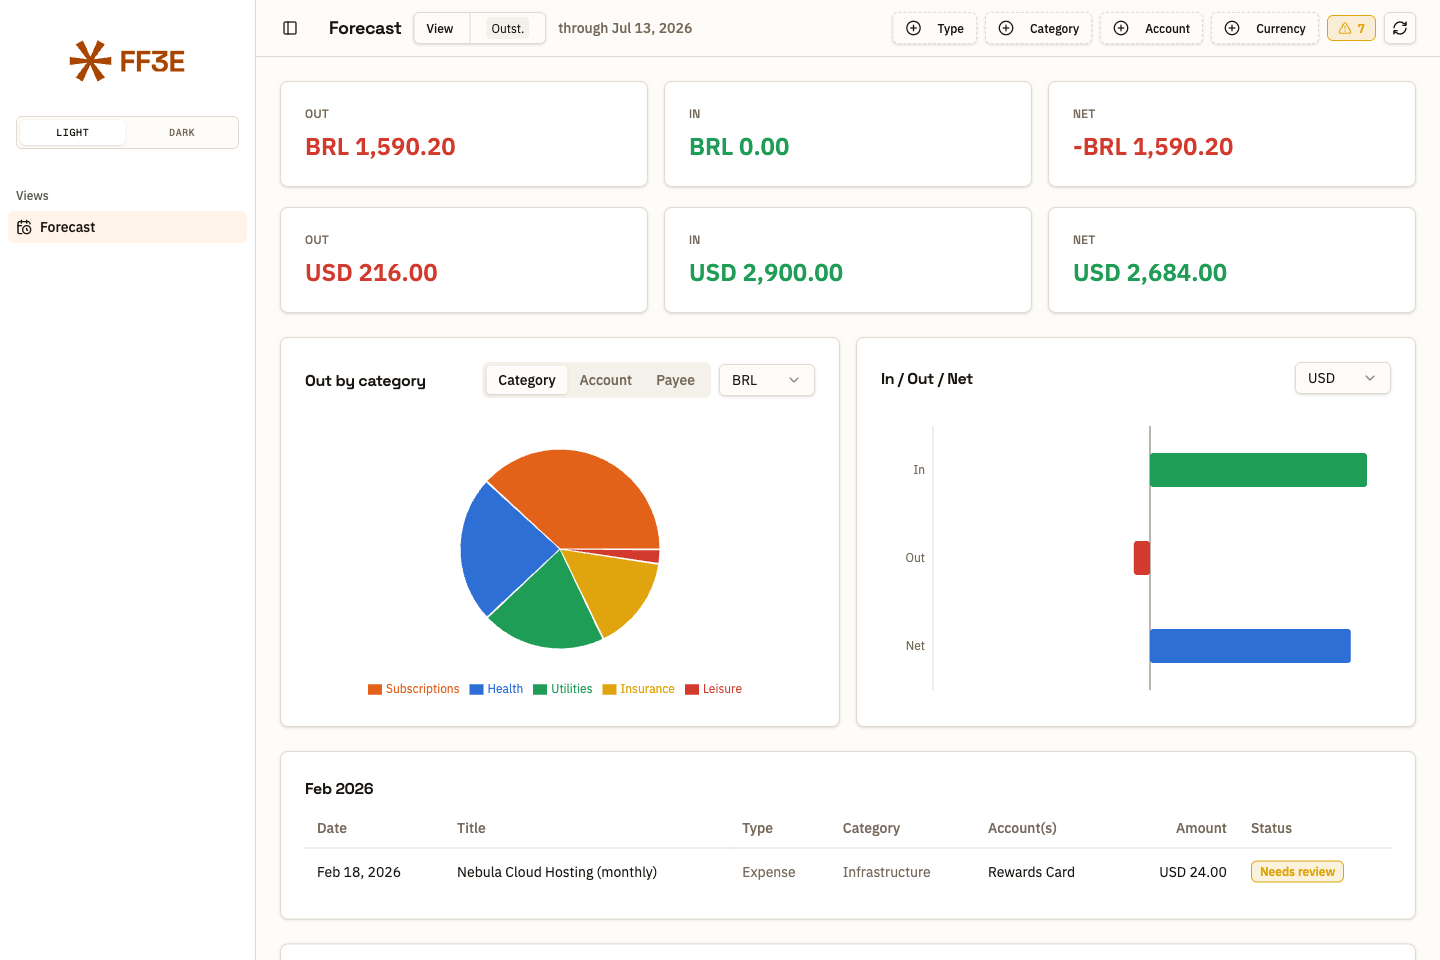
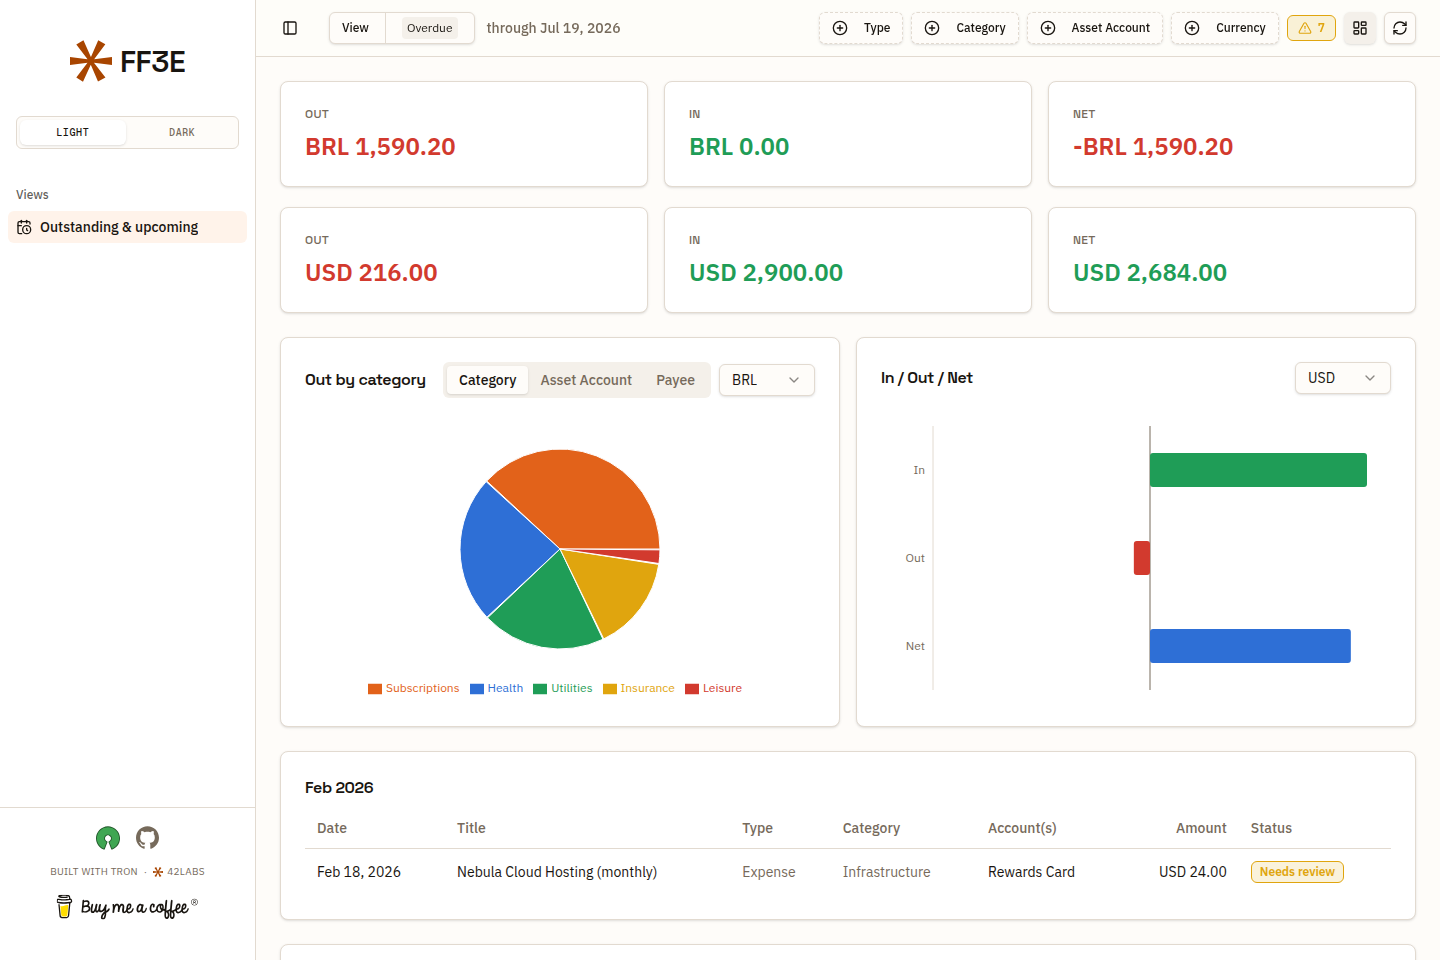
feat(entropy): emit only the outstanding set + rename views, drop header, add dashboard toggle (#13)
Entropy complements Firefly III rather than restating it. Confirmed occurrences
(paid/received/done) live in Firefly III, so the engine now drops them at the
source and emits ONLY the outstanding set (upcoming + needs_review). The match
still runs for every occurrence — it consumes the matched transaction via `used`
so a later occurrence can't re-claim it — only the confirmed item isn't appended.

Because the payload is no longer "forecast" alone (upcoming is forecast, but
needs_review is arrears), rename for accuracy:
- views: outstanding → "Overdue", month_end → "Due this month" (labels only;
  ViewMode keys and range/filter logic unchanged)
- sidebar tab: "Forecast" → "Outstanding & upcoming"; the header <h1> title is
  removed (the tab is named only in the sidebar)

Add a Dashboard show/hide toggle (per-currency stat cards + charts) in the
header, persisted in localStorage, shown by default; the item list is never
gated by it.

Docs/demo: README rewritten to the two-status model; hero screenshot refreshed;
the public demo-story fixture regenerated to drop confirmed items and recompute
aggregates.

Validated against a drift-proof live baseline: post-change totals 416/192/196,
paid count 0, remaining item set per-period identical to baseline minus the
confirmed rows. Sonnet adversarial review: clean.

Claude-Session: https://claude.ai/code/session_01CWDxZw6DSzizpzjcJrTrqe

diff --git a/web/src/App.tsx b/web/src/App.tsx
@@ -20,6 +20,25 @@ export default function App() {
   const [mode, setMode] = useState<ViewMode>('month')
   const [anchor, setAnchor] = useState<string>(() => todayISO())
   const [filters, setFilters] = useState<ActiveFilters>(EMPTY_FILTERS)
+  // Dashboard = the stat cards + charts. Shown by default; the choice persists
+  // across reloads. The item list below is never gated by this.
+  const [dashboardShown, setDashboardShown] = useState<boolean>(() => {
+    try {
+      return localStorage.getItem('entropy:dashboard') !== 'hidden'
+    } catch {
+      return true
+    }
+  })
+  const toggleDashboard = () =>
+    setDashboardShown((shown) => {
+      const next = !shown
+      try {
+        localStorage.setItem('entropy:dashboard', next ? 'shown' : 'hidden')
+      } catch {
+        /* private mode / storage disabled — session-only toggle is fine */
+      }
+      return next
+    })
 
   const cumulative = isCumulativeMode(mode)
 
@@ -68,7 +87,7 @@ export default function App() {
 
   const emptyMessage = cumulative
     ? mode === 'outstanding'
-      ? 'Nothing outstanding — everything due so far is accounted for.'
+      ? 'Nothing overdue — everything due so far is accounted for.'
       : 'Nothing due through the end of this month.'
     : 'No projected obligations in this period.'
 
@@ -92,6 +111,8 @@ export default function App() {
           filterOptions={filterOptions}
           filters={filters}
           onFiltersChange={setFilters}
+          dashboardShown={dashboardShown}
+          onToggleDashboard={toggleDashboard}
         />
 
         <main className="w-full max-w-[1280px] px-4 py-6 sm:px-6">
@@ -114,18 +135,22 @@ export default function App() {
                   <EmptyState message={emptyMessage} />
                 ) : (
                   <>
-                    <SummaryCards currencies={filtered.currencies} />
+                    {dashboardShown && (
+                      <>
+                        <SummaryCards currencies={filtered.currencies} />
 
-                    <div className="grid grid-cols-1 gap-4 lg:grid-cols-2">
-                      <CategoryPie
-                        periods={sortedFilteredPeriods}
-                        availableCurrencies={availableCurrencies}
-                      />
-                      <PeriodBar
-                        periods={sortedFilteredPeriods}
-                        availableCurrencies={availableCurrencies}
-                      />
-                    </div>
+                        <div className="grid grid-cols-1 gap-4 lg:grid-cols-2">
+                          <CategoryPie
+                            periods={sortedFilteredPeriods}
+                            availableCurrencies={availableCurrencies}
+                          />
+                          <PeriodBar
+                            periods={sortedFilteredPeriods}
+                            availableCurrencies={availableCurrencies}
+                          />
+                        </div>
+                      </>
+                    )}
 
                     <PeriodTable periods={sortedFilteredPeriods} />
                   </>

diff --git a/web/src/components/PeriodNav.tsx b/web/src/components/PeriodNav.tsx
@@ -1,4 +1,4 @@
-import { AlertTriangle, ChevronLeft, ChevronRight, RefreshCw } from 'lucide-react'
+import { AlertTriangle, ChevronLeft, ChevronRight, LayoutDashboard, RefreshCw } from 'lucide-react'
 
 import { Button } from '@/components/ui/button'
 import { Separator } from '@/components/ui/separator'
@@ -15,8 +15,8 @@ const VIEW_OPTIONS: { value: ViewMode; label: string; short?: string }[] = [
   { value: 'day', label: 'Day' },
   { value: 'month', label: 'Month' },
   { value: 'year', label: 'Year' },
-  { value: 'outstanding', label: 'Outstanding', short: 'Outst.' },
-  { value: 'month_end', label: 'Due by Month-End', short: 'EOM' },
+  { value: 'outstanding', label: 'Overdue' },
+  { value: 'month_end', label: 'Due this month', short: 'This month' },
 ]
 
 export interface PeriodNavProps {
@@ -37,6 +37,10 @@ export interface PeriodNavProps {
   filterOptions: FilterOptions | null
   filters: ActiveFilters
   onFiltersChange: (f: ActiveFilters) => void
+  /** Dashboard (stat cards + charts) visibility, and its toggle. The item list
+   * is never gated by this. */
+  dashboardShown: boolean
+  onToggleDashboard: () => void
 }
 
 /**
@@ -61,6 +65,8 @@ export function PeriodNav(props: PeriodNavProps) {
     filterOptions,
     filters,
     onFiltersChange,
+    dashboardShown,
+    onToggleDashboard,
   } = props
 
   const cumulative = isCumulativeMode(mode)
@@ -70,7 +76,6 @@ export function PeriodNav(props: PeriodNavProps) {
       <div className="flex w-full max-w-[1280px] flex-wrap items-center gap-2 px-4 py-3 sm:px-6">
         <SidebarTrigger className="-ml-1" />
         <Separator orientation="vertical" className="mx-1 hidden h-5 sm:block" />
-        <h1 className="mr-1 font-heading text-lg font-semibold tracking-tight">Forecast</h1>
 
         <FacetedFilter
           title="View"
@@ -137,6 +142,17 @@ export function PeriodNav(props: PeriodNavProps) {
               {needsReviewCount}
             </span>
           )}
+          <Button
+            variant={dashboardShown ? 'secondary' : 'outline'}
+            size="icon"
+            className="h-8 w-8"
+            onClick={onToggleDashboard}
+            aria-pressed={dashboardShown}
+            aria-label={dashboardShown ? 'Hide dashboard' : 'Show dashboard'}
+            title={dashboardShown ? 'Hide dashboard' : 'Show dashboard'}
+          >
+            <LayoutDashboard className="h-4 w-4" />
+          </Button>
           <Button
             variant="outline"
             size="icon"

diff --git a/web/src/lib/types.ts b/web/src/lib/types.ts
@@ -1,6 +1,10 @@
 // Shape of GET /api/forecast.
 
 export type ItemType = 'withdrawal' | 'deposit' | 'transfer'
+// NOTE: against a live Firefly III the engine emits only the OUTSTANDING set
+// (upcoming + needs_review) — a confirmed occurrence lives in Firefly III and is
+// dropped at the source. paid/received/done remain in the union because the
+// local dev fixture (fixtures/projections-wide.json) still exercises them.
 export type ItemStatus = 'paid' | 'received' | 'done' | 'upcoming' | 'needs_review'
 export type Granularity = 'day' | 'month' | 'year'
 
@@ -64,10 +68,11 @@ export type PieGroupBy = 'category' | 'account' | 'payee'
 /**
  * What the view is showing.
  * - day/month/year: ONE calendar period at a time, navigable (default: current).
- * - outstanding:    everything still UNCONFIRMED due on/before today — reaches
- *                   back past this month to surface overdue.
- * - month_end:      the same, capped at the last day of the current month
- *                   (i.e. outstanding + what's still ahead this month).
+ * - outstanding:    (labelled "Overdue") everything still UNCONFIRMED due
+ *                   on/before today — reaches back past this month.
+ * - month_end:      (labelled "Due this month") the same, capped at the last
+ *                   day of the current month (overdue + what's still ahead this
+ *                   month).
  * The last two are not calendar periods: they're anchored to "now" and are
  * filtered to unconfirmed statuses only, so prev/next doesn't apply.
  */

diff --git a/web/src/components/AppSidebar.tsx b/web/src/components/AppSidebar.tsx
@@ -23,9 +23,11 @@ interface NavItem {
   icon: ComponentType<{ className?: string }>
 }
 
-// One entry per view. Entropy for Firefly III ships a single view today (Forecast); adding
-// another later is a new row here (+ a router when there's more than one).
-const NAV: NavItem[] = [{ key: 'forecast', label: 'Forecast', icon: CalendarClock }]
+// One entry per view. Entropy for Firefly III ships a single view today
+// (Outstanding & upcoming); adding another later is a new row here (+ a router
+// when there's more than one). The nav LABEL is the only place the view is
+// named — the header bar deliberately carries no title.
+const NAV: NavItem[] = [{ key: 'forecast', label: 'Outstanding & upcoming', icon: CalendarClock }]
 
 export function AppSidebar({ activeView = 'forecast' }: { activeView?: string }) {
   return (

diff --git a/web/src/components/FacetedFilter.tsx b/web/src/components/FacetedFilter.tsx
@@ -21,7 +21,7 @@ export interface FacetOption {
   label: string
   /** Compact form shown in the chip badge when selected. The full `label` is
    * still what the dropdown list (and search) uses. Keeps long options like
-   * "Due by Month-End" from blowing out the chip width. */
+   * a long option like "Due this month" from blowing out the chip width. */
   short?: string
 }
 

diff --git a/web/src/lib/filters.ts b/web/src/lib/filters.ts
@@ -144,7 +144,7 @@ function recomputePeriodTotals(items: ProjectionItem[]) {
 export function applyFilters(
   data: ProjectionsResponse,
   filters: ActiveFilters,
-  /** Cumulative views (Outstanding / Due by Month-End) show ONLY what hasn't
+  /** Cumulative views (Overdue / Due this month) show ONLY what hasn't
    * happened yet or can't be confirmed — never the already Paid/Received/Done. */
   unconfirmedOnly = false,
 ): ProjectionsResponse {

diff --git a/web/src/lib/range.ts b/web/src/lib/range.ts
@@ -1,6 +1,6 @@
 import type { Granularity, ViewMode } from './types'
 
-/** How far back the cumulative views (Outstanding / Due by Month-End) look for
+/** How far back the cumulative views (Overdue / Due this month) look for
  * still-unconfirmed obligations. The engine needs a bounded start date; 12
  * months comfortably covers real overdue while keeping the payload sane. */
 export const OVERDUE_LOOKBACK_MONTHS = 12

diff --git a/server/forecast.py b/server/forecast.py
@@ -47,6 +47,14 @@ _DIR = {
     "deposit": ("received", "in"),
     "transfer": ("done", "xfer"),
 }
+# An occurrence that matched a real transaction is CONFIRMED — it already
+# happened and lives in Firefly III. Entropy complements Firefly III (it does
+# not restate it), so a confirmed occurrence is not emitted: the payload is the
+# OUTSTANDING set (upcoming + needs_review) only. The match still runs for every
+# occurrence — it is the only way to know a paused recurrence became a real
+# transaction, and it consumes the matched txn so a later occurrence can't
+# re-claim it — we simply drop the item once it is confirmed.
+_CONFIRMED = frozenset(s for s, _ in _DIR.values())  # {"paid", "received", "done"}
 _MN = ["", "Jan", "Feb", "Mar", "Apr", "May", "Jun",
        "Jul", "Aug", "Sep", "Oct", "Nov", "Dec"]
 
@@ -300,6 +308,9 @@ def build_projection(granularity: str = "month",
             for d in occ_dates:
                 occ = {"type": rtype, "amount": amt, "source": src,
                        "destination": dst, "date": d}
+                # Always run the match — it consumes the matched txn (via `used`)
+                # so a later occurrence of the same recurrence can't re-claim it,
+                # even though a confirmed occurrence is dropped below.
                 match = _find_match(occ, txns, used)
                 if match:
                     status = _DIR.get(rtype, ("paid",))[0]
@@ -310,6 +321,10 @@ def build_projection(granularity: str = "month",
                 else:
                     status = "upcoming"
                     matched_id = None
+                # Emit the OUTSTANDING set only: confirmed occurrences already
+                # live in Firefly III and are not restated here.
+                if status in _CONFIRMED:
+                    continue
                 items.append({
                     "date": d.isoformat(), "title": title, "type": rtype,
                     "amount": amt, "currency": cur, "source": src,

diff --git a/README.md b/README.md
@@ -1,41 +1,47 @@
 # Entropy for Firefly III
 
-![Entropy for Firefly III — Outstanding view showing an overdue backlog, a needs-review item, and income/expense totals](docs/forecast.png)
+![Entropy for Firefly III — Overdue view: a needs-review backlog with per-currency totals and charts](docs/forecast.png)
 
 **[Live demo →](https://ff3e.42labs.io)** — 100% synthetic data, no Firefly III instance behind it.
 
-**What's coming, and whether it actually happened.**
+**What's still outstanding — overdue and upcoming, in one place.**
 
-Firefly III knows all your recurring transactions — rent, salary, that streaming
-subscription. But it won't lay them out in front of you and tell you which ones
-have already landed and which are quietly overdue.
+Firefly III records every transaction you've made and knows all your recurring
+ones — rent, salary, that streaming subscription. But it won't lay the recurring
+ones out in front of you and tell you which are quietly overdue and which are
+still ahead.
 
-Entropy for Firefly III does exactly that, and nothing else. It's a read-only **Forecast**
-view: point it at your Firefly III, and it projects every recurring transaction
-forward, then matches each expected occurrence against your real booked
-transactions.
+Entropy for Firefly III does exactly that, and nothing else. It's a read-only
+view that **complements** Firefly III: point it at your instance, and it projects
+every recurring transaction forward, matches each expected occurrence against
+your real booked transactions, and then shows you **only what's left** — the
+outstanding set.
 
-Every occurrence ends up in one of five states:
+Every occurrence you see is in one of two states:
 
 | Status | Meaning |
 | --- | --- |
 | **Upcoming** | Due in the future. Nothing to do yet. |
-| **Paid** | An expense that's been booked. |
-| **Received** | Income that's arrived. |
-| **Done** | A transfer that went through. |
 | **Needs review** | Its date has passed and no matching transaction turned up. |
 
-That last one is the point of the whole thing. Entropy for Firefly III never guesses: if it
-can't find a real transaction with the same type, the same exact amount, on the
-same account, within a few days of the expected date, it says so instead of
-pretending.
+When an occurrence *does* match a real transaction, it's confirmed — and it
+simply drops out of the view. Entropy shows what's outstanding, not what's
+already done: the done half already lives in Firefly III, and Entropy doesn't
+restate it.
+
+"Needs review" is the point of the whole thing. Entropy for Firefly III never
+guesses: if it can't find a real transaction with the same type, the same exact
+amount, on the same account, within a few days of the expected date, it says so
+instead of pretending.
 
 ## What you see
 
 - **Day / Month / Year** — one period at a time, with a picker to jump anywhere.
-- **Outstanding** — everything unconfirmed and already due, including the months
+- **Overdue** — everything unconfirmed and already due, including the months
   behind you.
-- **Due by Month-End** — the same, plus what's still ahead this month.
+- **Due this month** — the same, plus what's still ahead this month.
+- A **Dashboard** (per-currency totals + charts) you can show or hide; the item
+  list is always there.
 - Filter by type, category, **asset account** or currency; totals never
   cross-sum currencies. (The account facet lists only your own asset accounts —
   the paying/receiving side — never expense or revenue counterparties.)